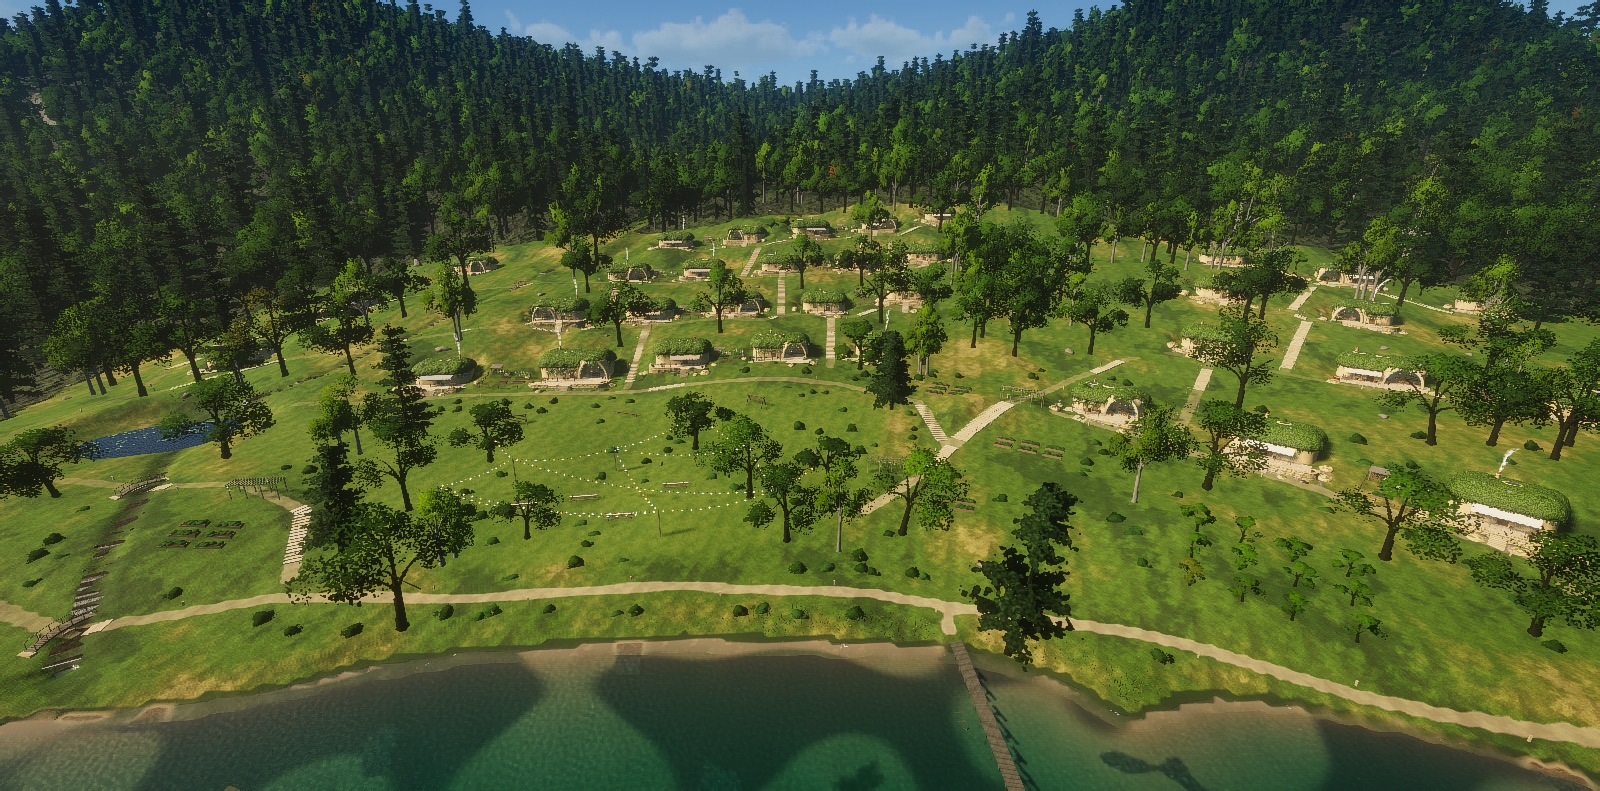
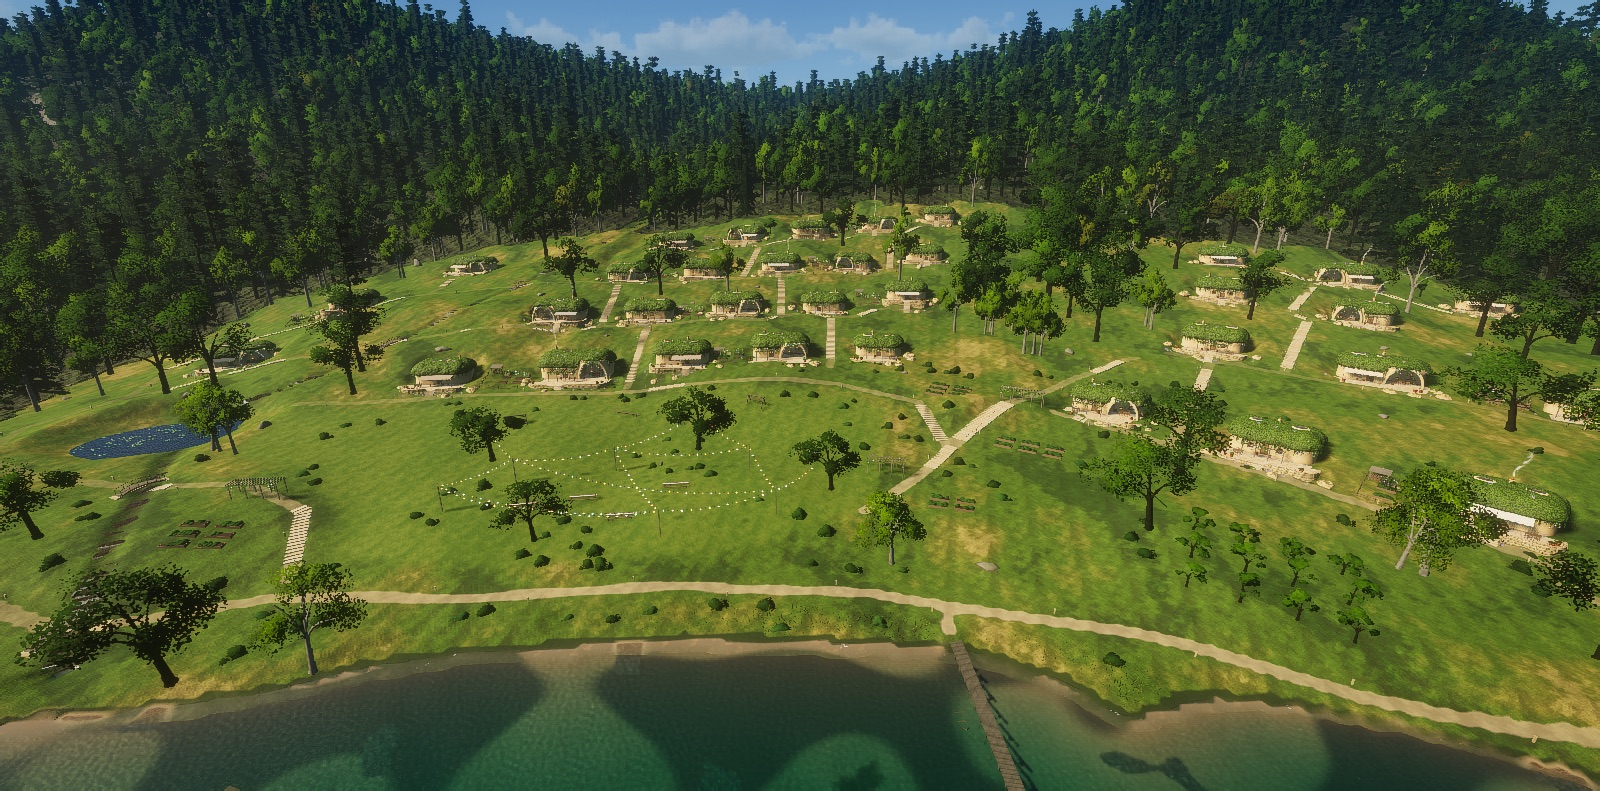
Open rows: few trees among the homes; fainter, rarer chimney smoke
The neighbourhood painting's rows are open, flowery shelves with the big
trees on the green and above the village; the clearing had trees right
among the homes. Within ~14 m of a home the tree density drops to a
quarter. The smoke read as bright plumes over many roofs: now one chimney
in seven (always Mimi's), fainter and greyer. Key art and screenshots
re-rendered.

diff --git a/src/world/vegetation/ForestScatter.js b/src/world/vegetation/ForestScatter.js
@@ -169,7 +169,11 @@ export function scatterForest( site, seed = 2026 ) {
 		// (docs/REFERENCE.md: the village stands among trees); the mown green stays open but for its edges
 		const forest = 1 - smoothstep( 0.25, 0.75, c.open );
 		const lawn = site.inLawn ? site.inLawn( x, z ) : 0;
-		let p = 0.92 * forest + ( 1 - forest ) * 0.3 * smoothstep( - 0.4, 0.3, patch ) * ( 1 - lawn * 0.95 );
+		// (reference/neighborhood-v2.png: the rows of homes are open, flowery shelves; few trees right among
+		// them, more between the rows' ends and above them)
+		const od = site.obstacleDist( x, z );
+		const amongHomes = smoothstep( 14, 5, od );
+		let p = 0.92 * forest + ( 1 - forest ) * 0.3 * smoothstep( - 0.4, 0.3, patch ) * ( 1 - lawn * 0.95 ) * ( 1 - amongHomes * 0.75 );
 		// thinner on the ledges and steep ground
 		p *= 1 - smoothstep( 0.3, 0.6, c.rock ) * 0.6 - smoothstep( 0.45, 0.62, c.slope ) * 0.5;
 		if ( rand() > p ) return;

diff --git a/src/world/settlement/Home.js b/src/world/settlement/Home.js
@@ -627,7 +627,7 @@ export function buildHome( B, h, g, rand, groundAt, drapes = null, plantings = n
 			B.lathe( 'stone', x, y - 0.4, z, [ [ 0.3, 0 ], [ 0.27, 0.9 ], [ 0.33, 0.96 ], [ 0.33, 1.06 ], [ 0.24, 1.06 ] ], { segs: 14, data: [ rand.next(), 8, 0, - 3 ] } );
 			B.lathe( 'stone', x, y + 0.66, z, [ [ 0.15, 0 ], [ 0.17, 0.22 ], [ 0.13, 0.32 ], [ 0.14, 0.36 ], [ 0.11, 0.36 ] ], { segs: 12, data: [ rand.next(), 6, 0, 0 ] } );
 			// a thin wisp from some of them (the painting)
-			if ( smoke && ( h.smoke ?? rand.next() < 0.3 ) ) {
+			if ( smoke && ( h.smoke ?? rand.next() < 0.15 ) ) {
 
 				const w = B.toWorld( x, y + 1.0, z );
 				smoke.add( w.x, w.y, w.z, 4.5 + rand.next() * 2, rand );

diff --git a/src/world/settlement/Smoke.js b/src/world/settlement/Smoke.js
@@ -23,12 +23,12 @@ const SHADER = /* wgsl */`
 	let edge = 1.0 - smoothstep( 0.2, 1.0, abs( u - curl ) / ( w * 0.5 + 1e-3 ) );
 	let dens = smoothstep( 0.3, 0.62, n ) * edge * pow( 1.0 - t, 0.6 ) * smoothstep( 0.0, 0.05, t );
 	if ( dens < 0.02 ) { discard; }
-	s.albedo = vec3f( 0.7, 0.7, 0.7 ) * ( 0.85 + n * 0.2 );
+	s.albedo = vec3f( 0.55, 0.56, 0.58 ) * ( 0.85 + n * 0.2 );
 	s.roughness = 1.0;
 	s.metalness = 0.0;
 	s.normal = normalize( in.V );
-	s.translucency = vec3f( 0.25 );
-	s.alpha = dens * 0.35;
+	s.translucency = vec3f( 0.12 );
+	s.alpha = dens * 0.18;
 `;
 
 const SWAY = /* wgsl */`

diff --git a/docs/DECISIONS.md b/docs/DECISIONS.md
@@ -60,7 +60,7 @@ Each is easy to reverse; the file or setting is named.
 - **Walks and stairs.** A walk runs along the front of each row's terraces (generated from `ROWS`), and long
   straight stone stairs climb between homes to the row above (`STAIRS`), as in the neighbourhood image. The
   green's top path is the first row's walk.
-- **Chimney smoke.** A thin wisp from about a third of the chimneys, always Mimi's (the painting has one). The
+- **Chimney smoke.** A faint wisp from about one chimney in seven, always Mimi's (the painting has one). The
   bible rules out routine combustion; I read these as bread ovens and the odd hearth fire, not heating or
   power. Easy to remove (`smoke` per home, `Smoke.js`).
 - **Lanterns up the stairs** on timber posts with an arm (the neighbourhood painting); low stone lamps stay
@@ -109,7 +109,9 @@ Each is easy to reverse; the file or setting is named.
   open-grown red oaks and maples with broad, low crowns, birches in twos and threes, a few pines, glades of
   meadow between (`CLEARING` in `Plan.js`, rules in `ForestScatter.js`); trees keep ~4.5 m off the homes and
   the forest closes in at a ragged edge. The clearing now reaches the shore (the tall shore pines there made it
-  look unlike the paintings' broadleaf lakeside) and grows ~50 % more trees than before.
+  look unlike the paintings' broadleaf lakeside). Few trees right among the homes (a quarter of the density
+  within ~14 m of a home): the neighbourhood painting's rows are open, flowery shelves, with the big trees on
+  the green and above the village.
 - **Designed vistas.** Corridors from the starting point down over the green to the cove are kept free of
   trees (`VISTAS` in `Plan.js`).
 - **Fuller crowns.** Every broadleaf tree carries ~1.3x the leaf clusters it had in Tidewater (the crowns read
